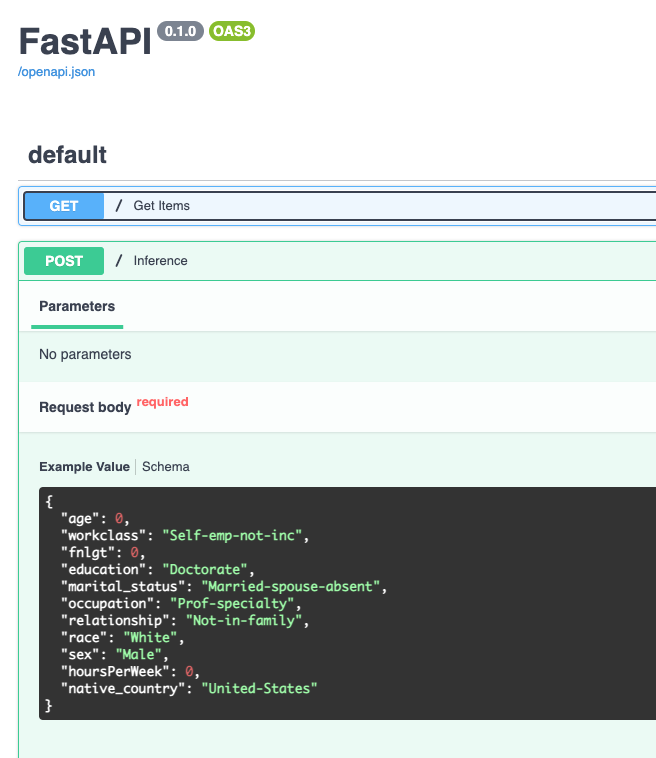
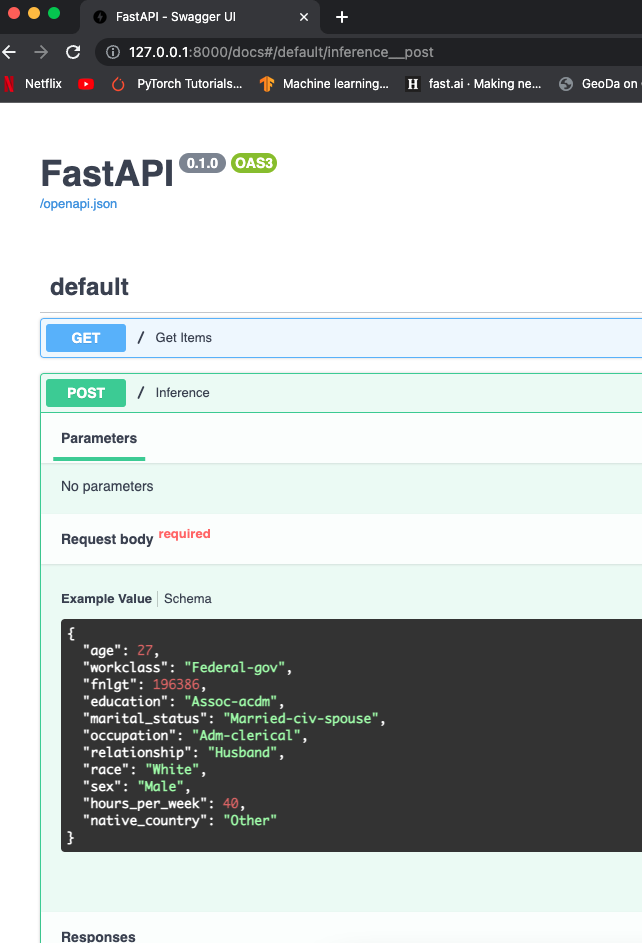
Add example of API schema

diff --git a/prediction_api.py b/prediction_api.py
@@ -36,6 +36,23 @@ class User(BaseModel):
     sex: Literal['Male', 'Female']
     hours_per_week: int
     native_country: Literal['United-States', 'Other']
+    
+    class Config:
+        schema_extra = {
+            "example" :{
+                "age" : 27,
+                "workclass": 'Federal-gov',
+                "fnlgt": 196386,
+                "education": 'Assoc-acdm',
+                "marital_status": 'Married-civ-spouse',
+                "occupation": 'Adm-clerical',
+                "relationship": 'Husband',
+                "race": 'White',
+                "sex": 'Male',
+                "hours_per_week": 40,
+                "native_country": 'Other',
+            }
+        }
 
 # For DVC making pull data on deployment
 if "DYNO" in os.environ and os.path.isdir(".dvc"):

diff --git a/README.md b/README.md
@@ -1,6 +1,6 @@
-Working in a command line environment is recommended for ease of use with git and dvc. If on Windows, WSL1 or 2 is recommended.
+# Machine Learning Model CICD with Github Action and Heroku
 
-# Environment Set up
+## Environment Set up
 * Download and install conda if you don’t have it already.
     * Use the supplied requirements file to create a new environment, or
     * conda create -n [envname] "python=3.8" scikit-learn dvc pandas numpy pytest jupyter jupyterlab fastapi uvicorn -c conda-forge
